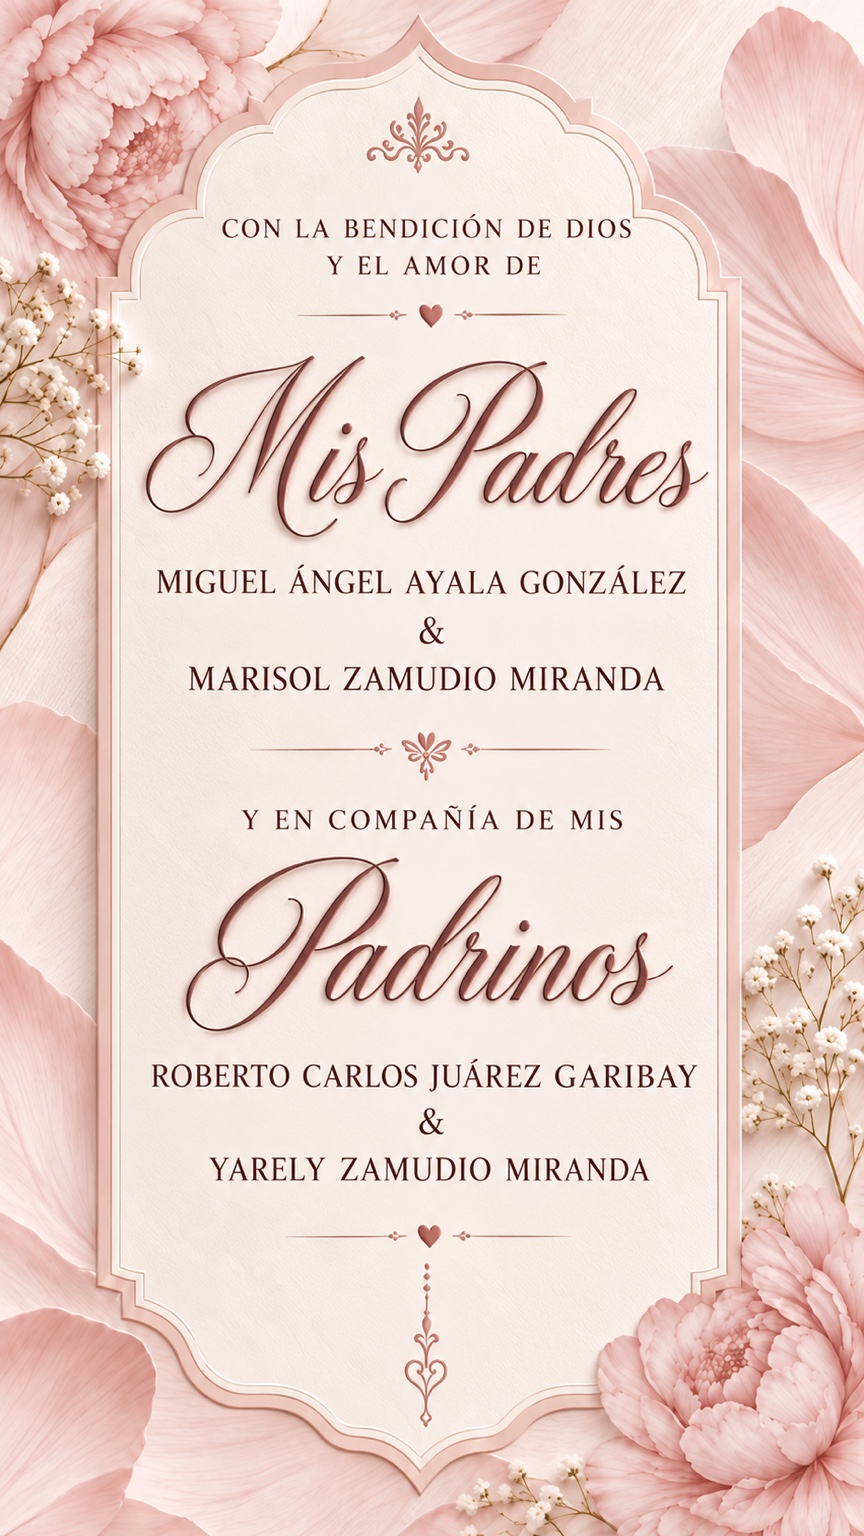
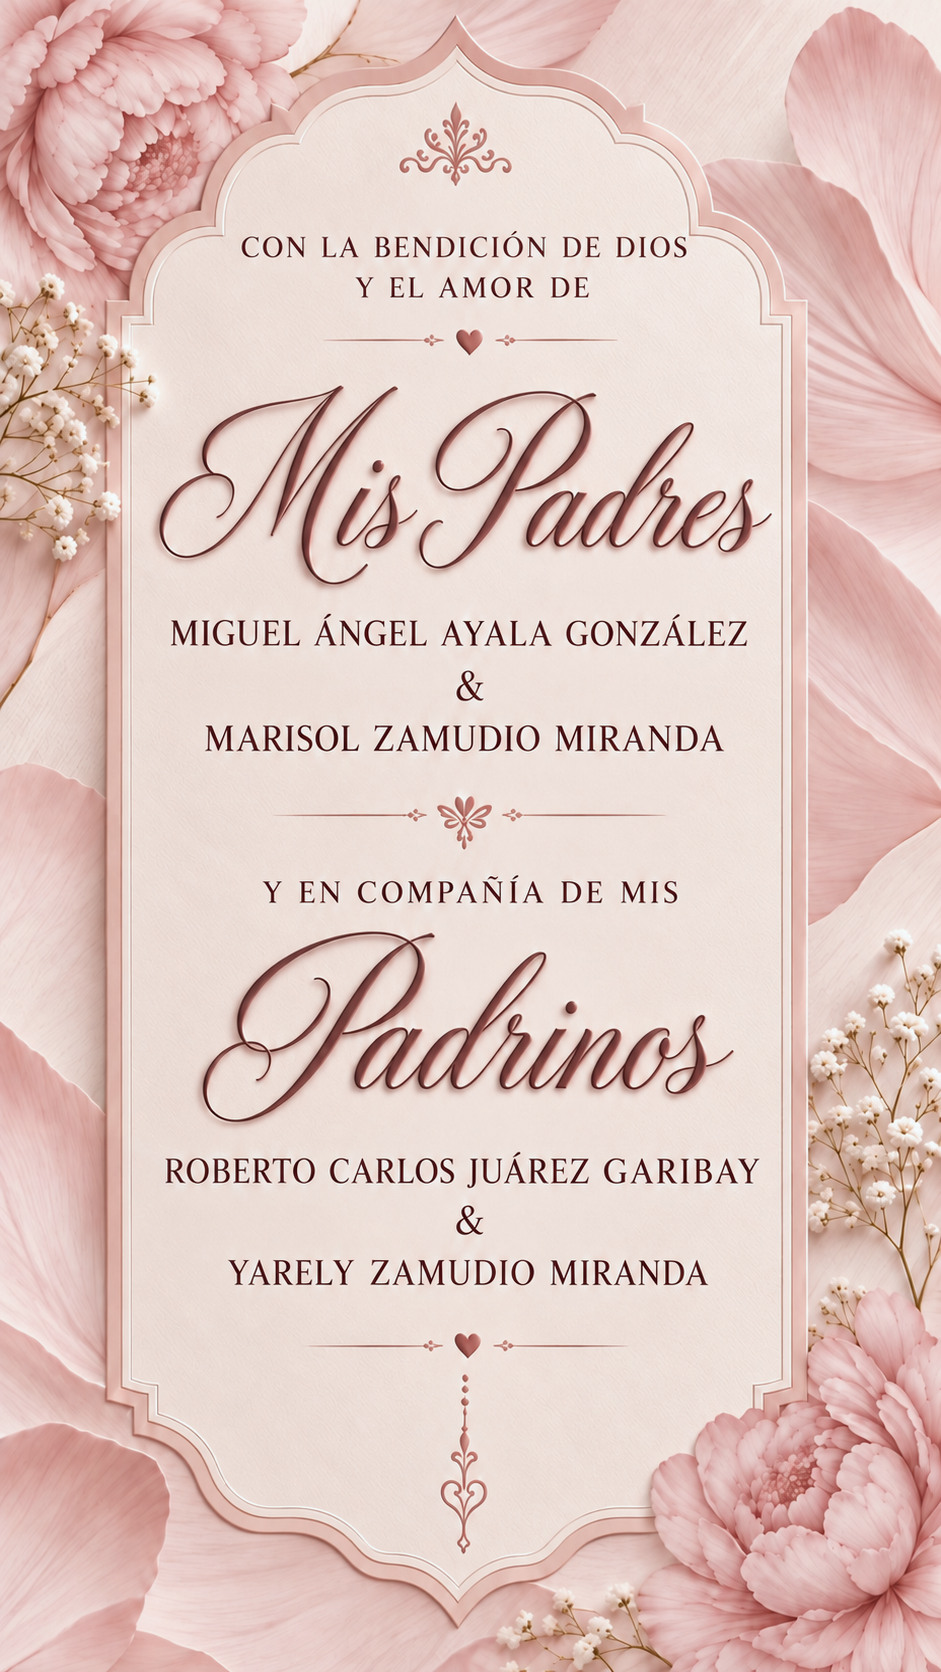
Unify Valeria invitation stills with Seedance blush palette

diff --git a/pruebas/valeria-seedance-2026/index.html b/pruebas/valeria-seedance-2026/index.html
@@ -11,8 +11,8 @@
 <meta property="og:description" content="Acompáñame a celebrar mis XV años · 11 de diciembre de 2026">
 <meta property="og:site_name" content="Aura Digital">
 <title>Valeria Guadalupe | Mis XV años</title>
-<link rel="preload" as="image" href="portada.jpg">
-<link rel="preload" as="image" href="padres-padrinos.jpg">
+<link rel="preload" as="image" href="portada.jpg?v=rosa20261017">
+<link rel="preload" as="image" href="padres-padrinos.jpg?v=rosa20261017">
 <style>
 :root { color-scheme:light; --rose:#824e59; }
 * {box-sizing:border-box}
@@ -37,16 +37,16 @@ main {width:100vw;height:100vh;height:100dvh;display:grid;place-items:center;ove
 <main>
 <div class="stage" aria-label="Invitación de XV años de Valeria Guadalupe">
  <section id="cover" class="scene is-active" aria-label="Portada de Valeria">
-  <img src="portada.jpg" alt="Portada rosa con sobre y sello de lacre V, Valeria Guadalupe, 11 de diciembre de 2026" draggable="false" fetchpriority="high">
+  <img src="portada.jpg?v=rosa20261017" alt="Portada rosa con sobre y sello de lacre V, Valeria Guadalupe, 11 de diciembre de 2026" draggable="false" fetchpriority="high">
   <button id="open" class="open" type="button" aria-label="Tocar el sello para abrir la invitación"></button>
  </section>
  <section id="film" class="scene" aria-label="Video de apertura" aria-hidden="true">
-  <video id="transition" playsinline webkit-playsinline preload="auto" poster="portada.jpg" disablepictureinpicture controlslist="nodownload noplaybackrate" aria-label="Apertura del sobre y presentación de padres y padrinos">
+  <video id="transition" playsinline webkit-playsinline preload="auto" poster="portada.jpg?v=rosa20261017" disablepictureinpicture controlslist="nodownload noplaybackrate" aria-label="Apertura del sobre y presentación de padres y padrinos">
    <source src="transicion.mp4" type="video/mp4">
   </video>
  </section>
  <section id="details" class="scene" aria-label="Padres y padrinos" aria-hidden="true">
-  <img src="padres-padrinos.jpg" alt="Papás Miguel Ángel Ayala González y Marisol Zamudio Miranda; padrinos Roberto Carlos Juárez Garibay y Yarely Zamudio Miranda" draggable="false">
+  <img src="padres-padrinos.jpg?v=rosa20261017" alt="Papás Miguel Ángel Ayala González y Marisol Zamudio Miranda; padrinos Roberto Carlos Juárez Garibay y Yarely Zamudio Miranda" draggable="false">
   <nav class="controls" aria-label="Controles de la invitación">
    <button type="button" id="home" aria-label="Volver a la portada">Portada</button>
    <button type="button" id="replay" aria-label="Repetir transición">Repetir</button>
@@ -85,7 +85,7 @@ main {width:100vw;height:100vh;height:100dvh;display:grid;place-items:center;ove
  video.addEventListener('error',()=>{running=false;inform('No pudo cargarse el video.');show(cover);});
  video.addEventListener('timeupdate',()=>{if(running&&Number.isFinite(video.duration)&&video.duration-video.currentTime<0.06)finish();});
  document.addEventListener('visibilitychange',()=>{if(document.hidden&&running)video.pause();});
- const prefetch=new Image();prefetch.src='padres-padrinos.jpg';
+ const prefetch=new Image();prefetch.src='padres-padrinos.jpg?v=rosa20261017';
 })();
 </script>
 </body>
